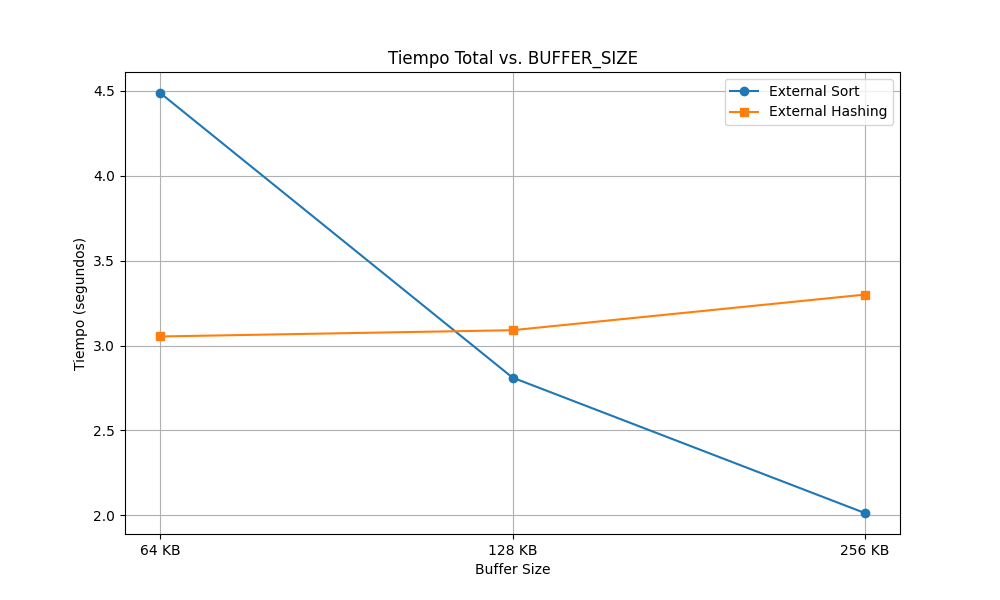
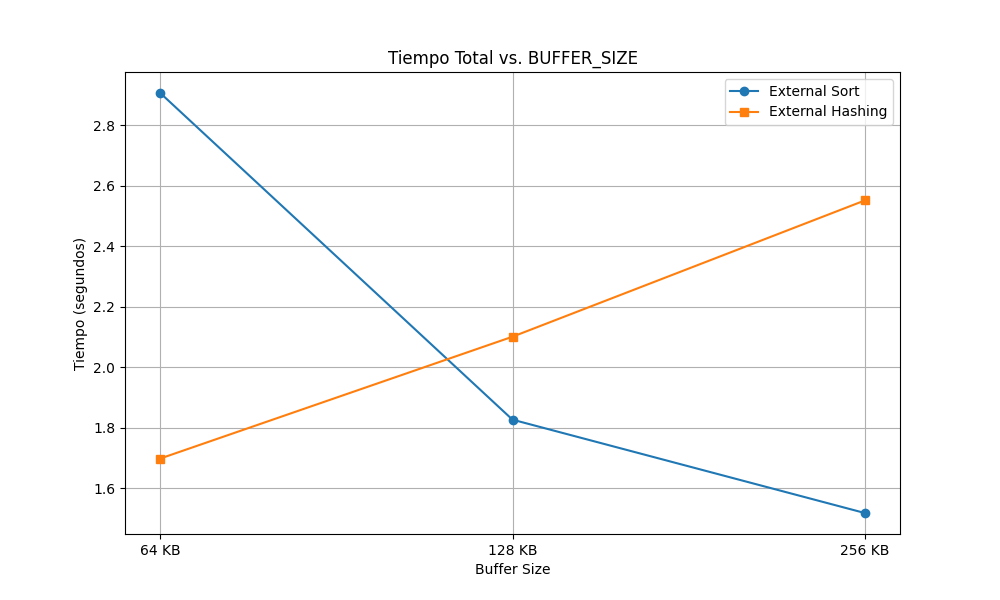
feat: Added time for Phases 1 & 2

diff --git a/benchmark.py b/benchmark.py
@@ -27,12 +27,11 @@ def run_benchmarks():
         res_h = hasher.externalhashgroupby("data/deparment_employee.bin", groupkeyindex=INDEX_FROM_DATE)
         res_h['buffer_label'] = f"{b_size//1024} KB"
         results_hash.append(res_h)
-        
-        print(f"SORT | Runs: {res_s['runs_generated']} | Time: {res_s['time_total_sec']}s | I/O: {res_s['pages_read'] + res_s['pages_written']}")
-        print(f"HASH | Part: {res_h['partitionscreated']} | Time: {res_h['timetotalsec']}s | I/O: {res_h['pagesread'] + res_h['pageswritten']}")
 
-    plot_performance(results_sort, results_hash)
+        print(f"SORT | Runs: {res_s['runs_generated']} | P1: {res_s['time_phase1_sec']}s | P2: {res_s['time_phase2_sec']}s | Total: {res_s['time_total_sec']}s | I/O: {res_s['pages_read'] + res_s['pages_written']}")
+        print(f"HASH | Part: {res_h['partitionscreated']} | P1: {res_h['timephase1sec']}s | P2: {res_h['timephase2sec']}s | Total: {res_h['timetotalsec']}s | I/O: {res_h['pagesread'] + res_h['pageswritten']}")
     
+    plot_performance(results_sort, results_hash)
     return results_sort, results_hash
 
 def plot_performance(sort_data, hash_data):